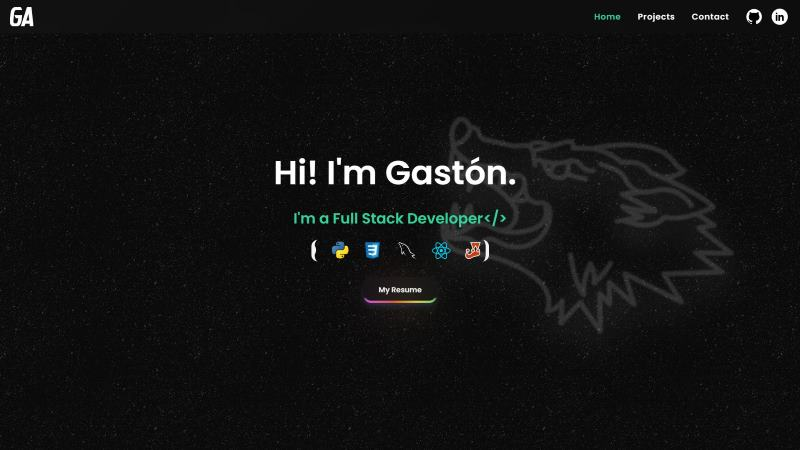
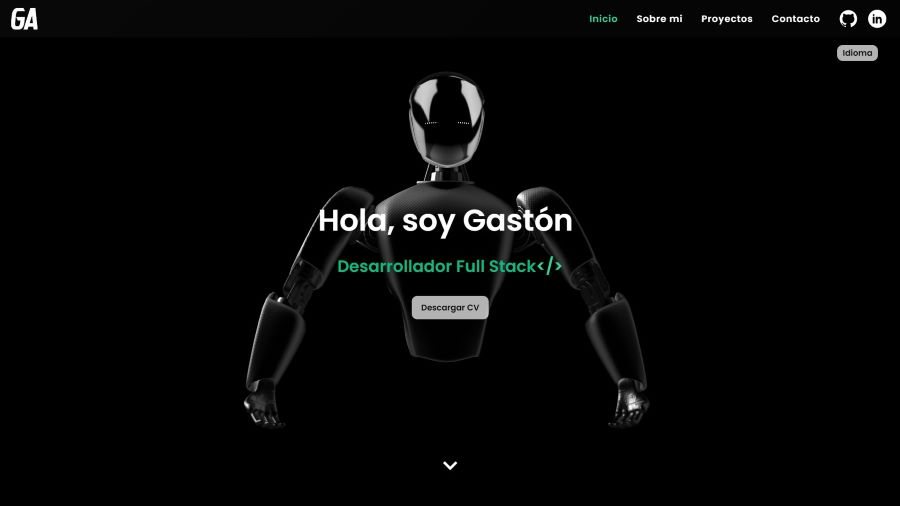
Update animations and remove unused code in Contact, Home, and Presentation components

diff --git a/frontend/src/components/Tools.jsx b/frontend/src/components/Tools.jsx
@@ -4,7 +4,7 @@ export const Tools = () => {
   return (
     <div className='flex flex-wrap  flex-col gap-6 m-12 justify-center items-center'>
       {/* TARJETA FRONTEND */}
-      <div className="bg-gray-950 bg-opacity-50 group hover:bg-emerald-900 hover:bg-opacity-30 transition-all px-2 pb-4 min-w-52 h-full rounded-2xl flex flex-col">
+      <div className="bg-emerald-900 bg-opacity-30 group hover:bg-emerald-900 hover:bg-opacity-70 transition-all px-2 pb-4 min-w-52 h-full rounded-2xl flex flex-col">
         <h1 className='p-3 group-hover:tracking-wider transition-all'>Frontend</h1>
         <div  className='flex items-center align-center justify-evenly flex-wrap gap-2 '>
           {/* React */}
@@ -66,7 +66,7 @@ export const Tools = () => {
         </div>
       </div>
       {/* TARJETA BACKEND */}
-      <div className="bg-gray-950 bg-opacity-50 group hover:bg-emerald-900 hover:bg-opacity-30 transition-all px-2 pb-4 min-w-52 h-full rounded-2xl flex flex-col">
+      <div className="bg-emerald-900 bg-opacity-30 group hover:bg-emerald-900 hover:bg-opacity-70 transition-all px-2 pb-4 min-w-52 h-full rounded-2xl flex flex-col">
         <h1 className='p-3 group-hover:tracking-wider transition-all'>Backend</h1>
         <div className='flex items-center align-center justify-evenly flex-wrap gap-2 '>
           <a data-tip='Node.js' className='tooltip' href="https://nodejs.org/en" target='_blank'>
@@ -104,7 +104,7 @@ export const Tools = () => {
         </div>
       </div>
       {/* TARJETA Tools */}
-      <div className="bg-gray-950 bg-opacity-50 group hover:bg-emerald-900 hover:bg-opacity-30 transition-all px-2 pb-4 min-w-52 h-full rounded-2xl flex flex-col">
+      <div className="bg-emerald-900 bg-opacity-30 group hover:bg-emerald-900 hover:bg-opacity-70 transition-all px-2 pb-4 min-w-52 h-full rounded-2xl flex flex-col">
         <h1 className='p-3 group-hover:tracking-wider transition-all'>Tools ands hosts</h1>
         <div  className='flex items-center align-center justify-evenly flex-wrap gap-2'>
           <a data-tip='Git' className='tooltip' href="https://git-scm.com/" target='_blank'>

diff --git a/frontend/src/components/Presentation.jsx b/frontend/src/components/Presentation.jsx
@@ -10,7 +10,7 @@ export const Presentation = () => {
   const [key, setKey] = useState(0)
 
   return (
-    <Suspense fallback={<div>Loading...</div>}>
+    <>
       <dialog id="languageChanged" className="modal">
         <div className="modal-box bg-primary">
           <p className="py-4 text-black">{t('modalLanguage')}</p>
@@ -25,15 +25,7 @@ export const Presentation = () => {
         <div className="animate__animated animate__backInRight animate__delay-2s animate__slowest absolute hidden tablet:block top-24 right-12">
           <LanguageSelector />
       </div>
-        {/* <div className='absolute laptop:right-[162px] z-0 opacity-80'>
-          <Spline className="scale-75 phone:scale-105 transition-all " scene="https://prod.spline.design/aZZ5kX7gJc2MkRAO/scene.splinecode" />
-      </div> */}
-        {/* <div className='absolute laptop:right-[162px] -z-10 opacity-50 scale-90'>
-          <Spline className="scale-75 phone:scale-105 transition-all " scene="https://prod.spline.design/euvIx-f1hMWRVDaC/scene.splinecode" />
-        </div> */}
-        {/* <div className='absolute desktop:right-[292px] desktop:top-26 z-0'>
-          <Spline className="animate__animated animate__fadeIn animate__delay-2s animate__slowest scale-75 phone:scale-125 transition-all " scene="https://prod.spline.design/LNX4GdVNTKBqdTLu/scene.splinecode" />
-        </div> */}
+       
       <TypeAnimation
         sequence={["", 1200, `${t('presentation')}`]}
         wrapper="span"
@@ -91,6 +83,7 @@ export const Presentation = () => {
        
       </Fade>
     </div>
-    </Suspense>
+     
+    </>
   );
 };

diff --git a/frontend/src/components/About.jsx b/frontend/src/components/About.jsx
@@ -9,7 +9,6 @@ export const About = () => {
     const { t } = useTranslation();
     return (
         <>
-
             <Suspense fallback={<div>Loading...</div>}>
                 <div className="flex px-6 h-full items-center flex-col overflow-hidden ">
                     <div className="flex-col flex tablet:flex-col space-x-5 phone:space-x-0 items-center justify-center mb-5">
@@ -21,7 +20,6 @@ export const About = () => {
                                 </Fade>
                             </span>
                             <div className="flex-none border-t-4 border-emerald-800 w-screen"></div>
-
                         </div>
                     </div>
                     <div className="text-justify text-[1rem] phone:text-[1.4rem] tablet:text-[1.6rem] tablet:max-w-[70%] laptop:max-w-[65%] overflow-hidden">
@@ -39,12 +37,7 @@ export const About = () => {
                         </Fade>
                     </div>
                     <Fade triggerOnce={true} delay={200} duration={2500} fraction={0.2}>
-
-                    {/* <div className="flex">
-                        <Spline className="scale-75 phone:scale-90 tablet:scale-125" scene="https://prod.spline.design/LNX4GdVNTKBqdTLu/scene.splinecode" />
-                    </div> */}
                     </Fade>
-
                 </div>
             </Suspense>
         </>

diff --git a/frontend/src/components/Home.jsx b/frontend/src/components/Home.jsx
@@ -6,22 +6,12 @@ export const Home = ({ handleClickScroll, setActiveLink }) => {
   return (
     <>
         <div className="relative h-[100vh] justify-center  flex w-screen  items-center  tablet:h-[100vh]">
-        {/* <div className="absolute w-full h-full z-0 animate__animated animate__fadeIn animate__delay-1s animate__slow">
-          <Spline scene="https://prod.spline.design/hFu6uCrd7dRvcgFT/scene.splinecode" />
-
-          </div> */}
-        <Fade className="absolute w-full h-full" triggerOnce={false} delay={500} duration={2000}>
-          <Spline scene="https://prod.spline.design/hvRaWYvtOaPmXySI/scene.splinecode" />
+        <Fade className='absolute w-full h-full z-0'  triggerOnce={true}  duration={2000}>
+          <Spline scene="https://prod.spline.design/1Np5iFnYpUkyE9pK/scene.splinecode" />
         </Fade>
-       
           <div>
             <Presentation />
           </div>
-          {/* <img
-            src="./icons/wolfHero.svg"
-            className=" animate-change-color drop-shadow-[0_35px_35px_white]	 absolute z-[-500] laptop:right-[10rem] w-[44rem] h-auto  "
-            alt="wolficon"
-          /> */}
           <span onClick={() => {
             setActiveLink("about");
             handleClickScroll("about");

diff --git a/frontend/src/components/Contact.jsx b/frontend/src/components/Contact.jsx
@@ -47,12 +47,6 @@ export const Contact = () => {
             </div>
           </div>
         </dialog>
-        {/* <div className="absolute"> */}
-      <Fade className="absolute w-full h-full" triggerOnce={false} delay={500} duration={2000}>
-        <Spline scene="https://prod.spline.design/hvRaWYvtOaPmXySI/scene.splinecode" />
-      </Fade>
-          {/* <div className="absolute inset-0"></div>
-        </div> */}
         <div className="flex px-6 h-screen items-center flex-col overflow-hidden">
           <div className="flex-col z-20 flex tablet:flex-col space-x-5 phone:space-x-0  items-center justify-center mb-5">
             <div className="relative flex items-center py-5 text-[2rem] phone:text-[3rem] tablet:text-[3.7rem] tablet:pb-4 tablet:mt-[120px] mt-[60px]">
@@ -89,9 +83,7 @@ export const Contact = () => {
               </div>
             </Fade>
           </div>
-          
           <form onSubmit={formik.handleSubmit} className="max-w-[1000px] w-full mt-5">
-
             <Fade triggerOnce={true} delay={100} duration={1500} fraction={0.4}>
               <div className="flex flex-col space-y-2 tablet:space-y-0 tablet:space-x-6 mb-2 tablet:flex-row">
                 <div className="flex flex-col w-full group">

diff --git a/frontend/src/components/Projects.jsx b/frontend/src/components/Projects.jsx
@@ -12,9 +12,6 @@ export const Projects = ({ handleClickScroll }) => {
       <Suspense fallback={<div>Loading...</div>}>
        
         <div className="flex relative h-auto min-h-screen w-full items-center flex-col overflow-hidden">
-          {/* <div className='absolute top-0  opacity-80 -z-50'>
-            <Spline className="scale-75 phone:scale-105 transition-all " scene="https://prod.spline.design/aZZ5kX7gJc2MkRAO/scene.splinecode" />
-          </div> */}
           <div className="relative flex items-center py-5 text-[2rem] phone:text-[3rem] tablet:text-[3.7rem] tablet:pb-4 tablet:mt-[120px] mt-[60px]">
             <div className="flex-none border-t-4 border-emerald-800 w-screen "></div>
             <span className="flex-none mx-4">

diff --git a/frontend/src/components/Navbar.jsx b/frontend/src/components/Navbar.jsx
@@ -41,7 +41,6 @@ export const Navbar = ({ handleClickScroll, activeLink, setActiveLink }) => {
           alt="gasteacIcon"
         />
       </a>
-
         <nav className="animate__animated animate__fadeInDown animate__delay-1s animate__slowest p-6 w-screen fixed top-0 z-50 tablet:bg-[rgb(20,50,57,0.05)] bg-[linear-gradient(320deg,_#0a0a0a40_0%,_#0f0f0f40_47%,_#1a1a1a40_100%)] tablet:backdrop-blur-[50px]">
         <div className="flex justify-end items-center text-xl h-[3vh]">
           <input
